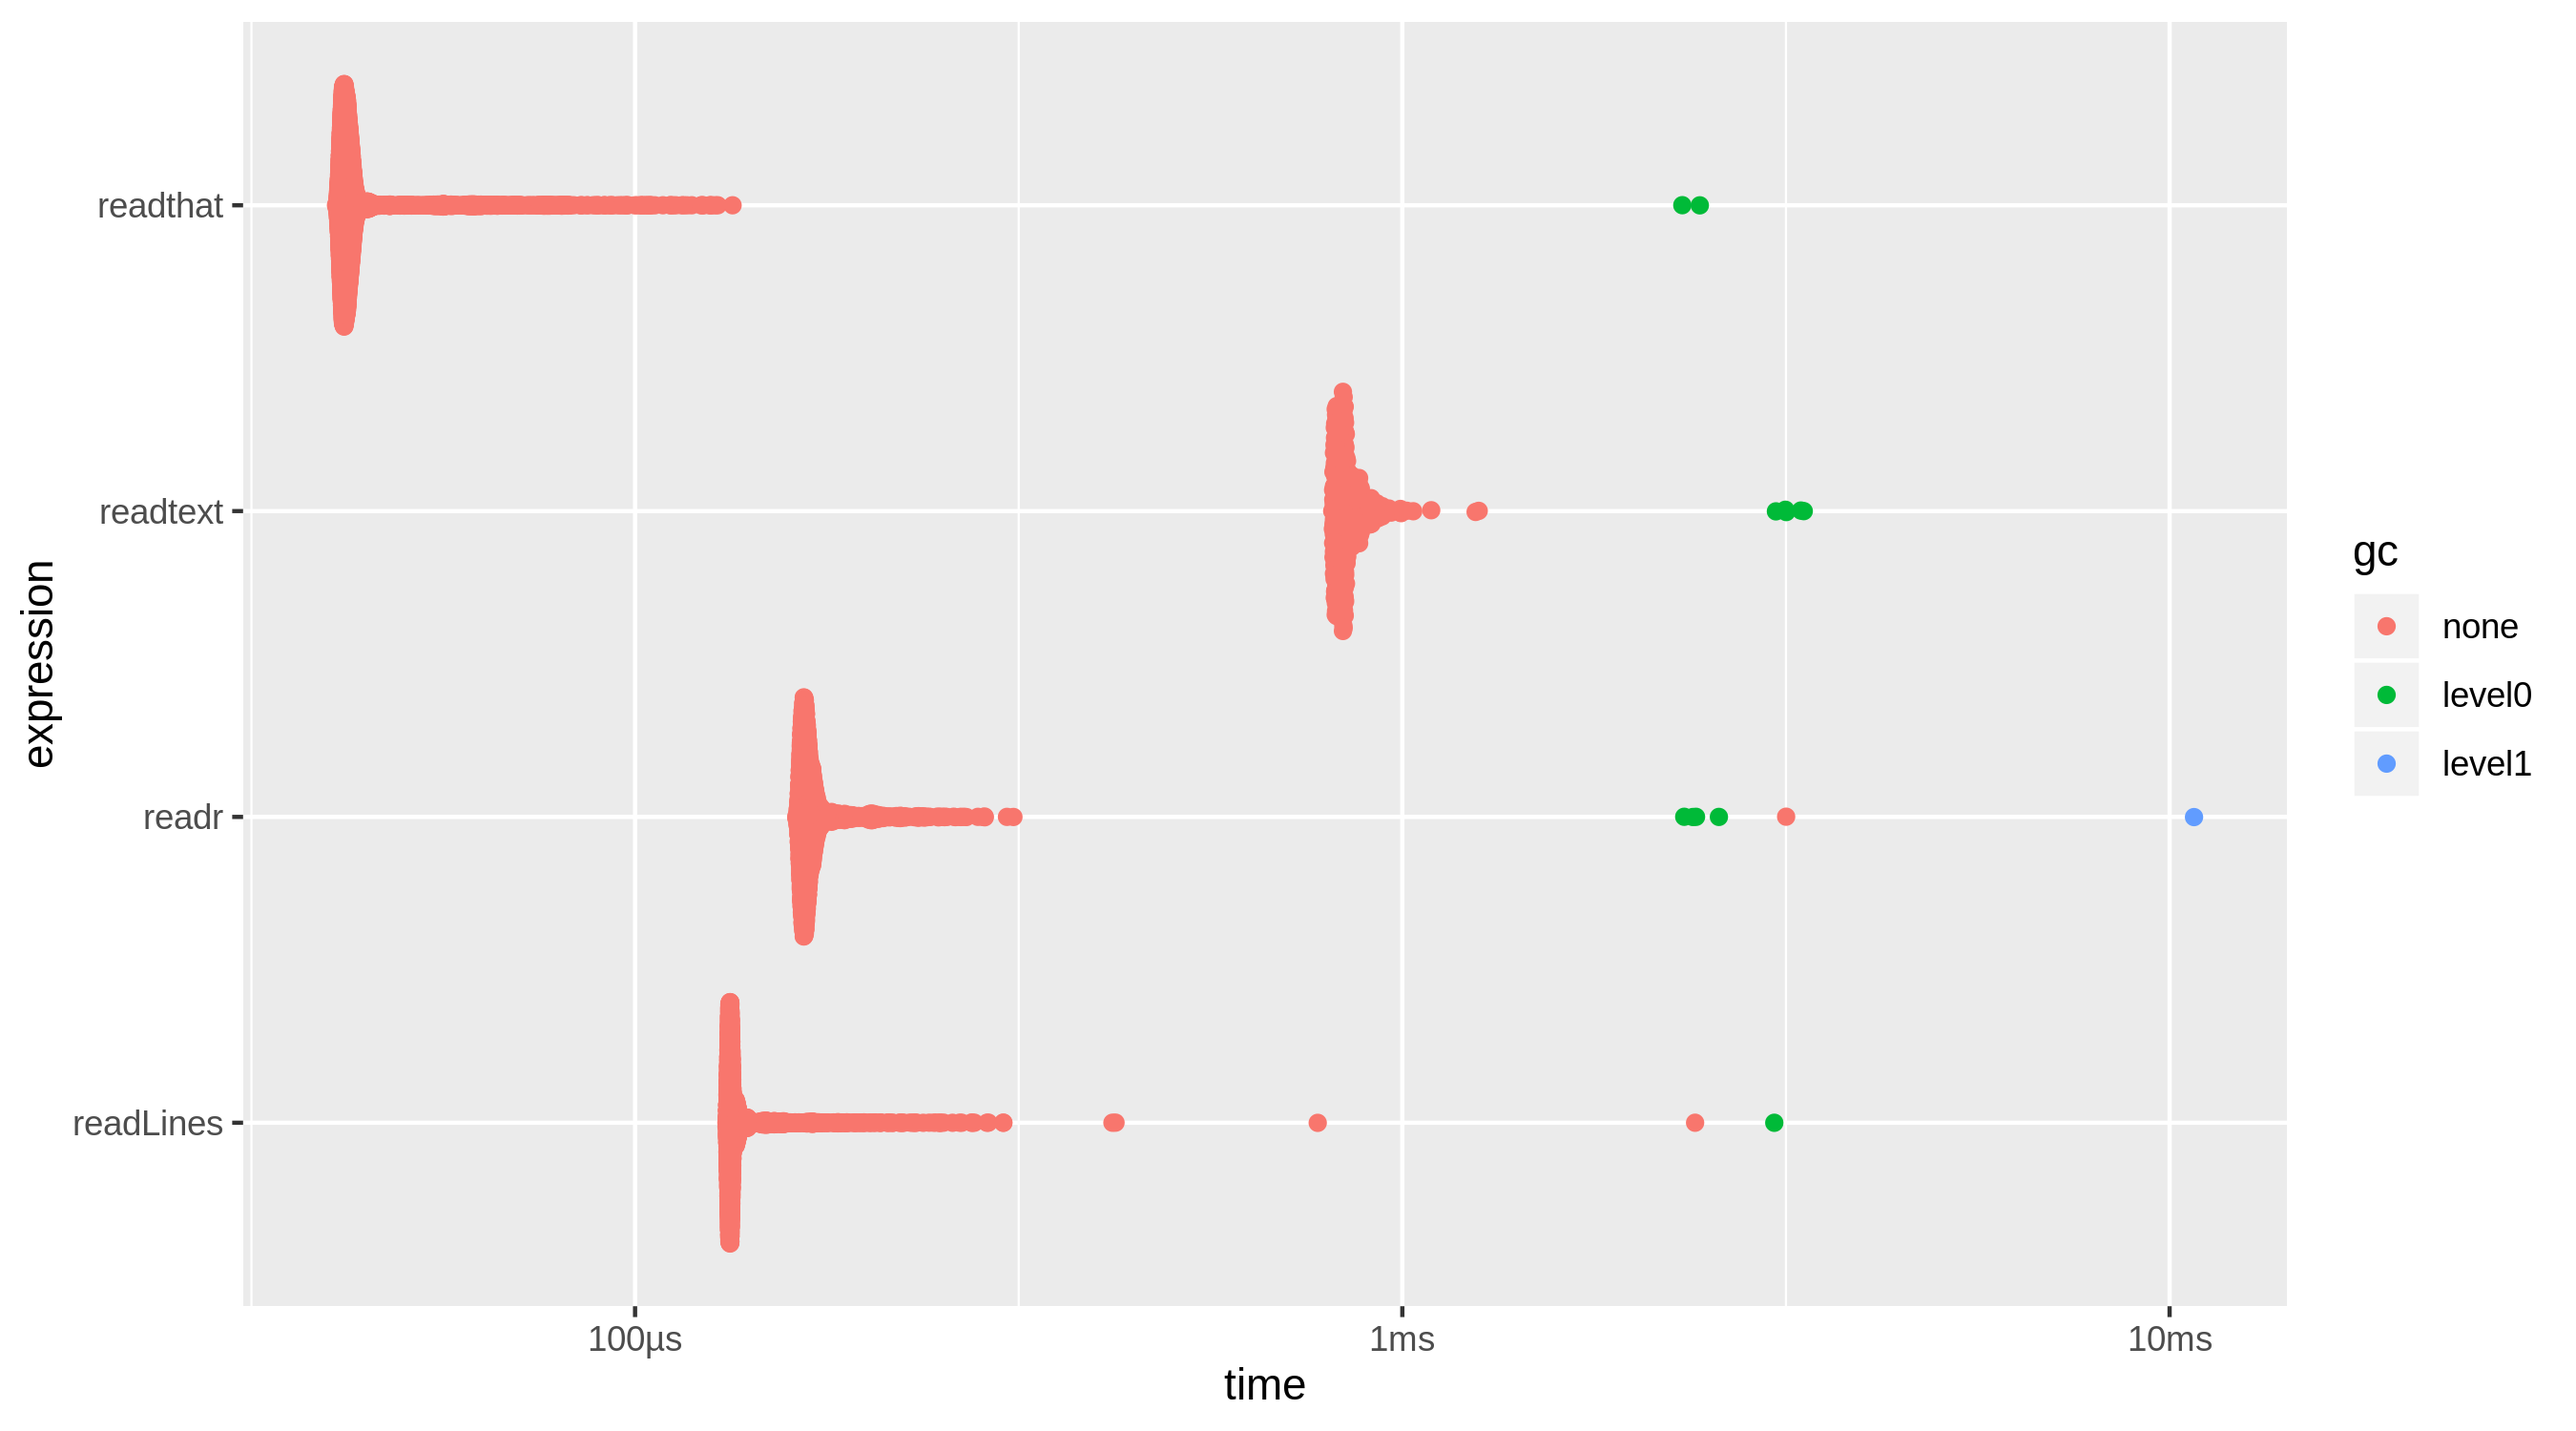
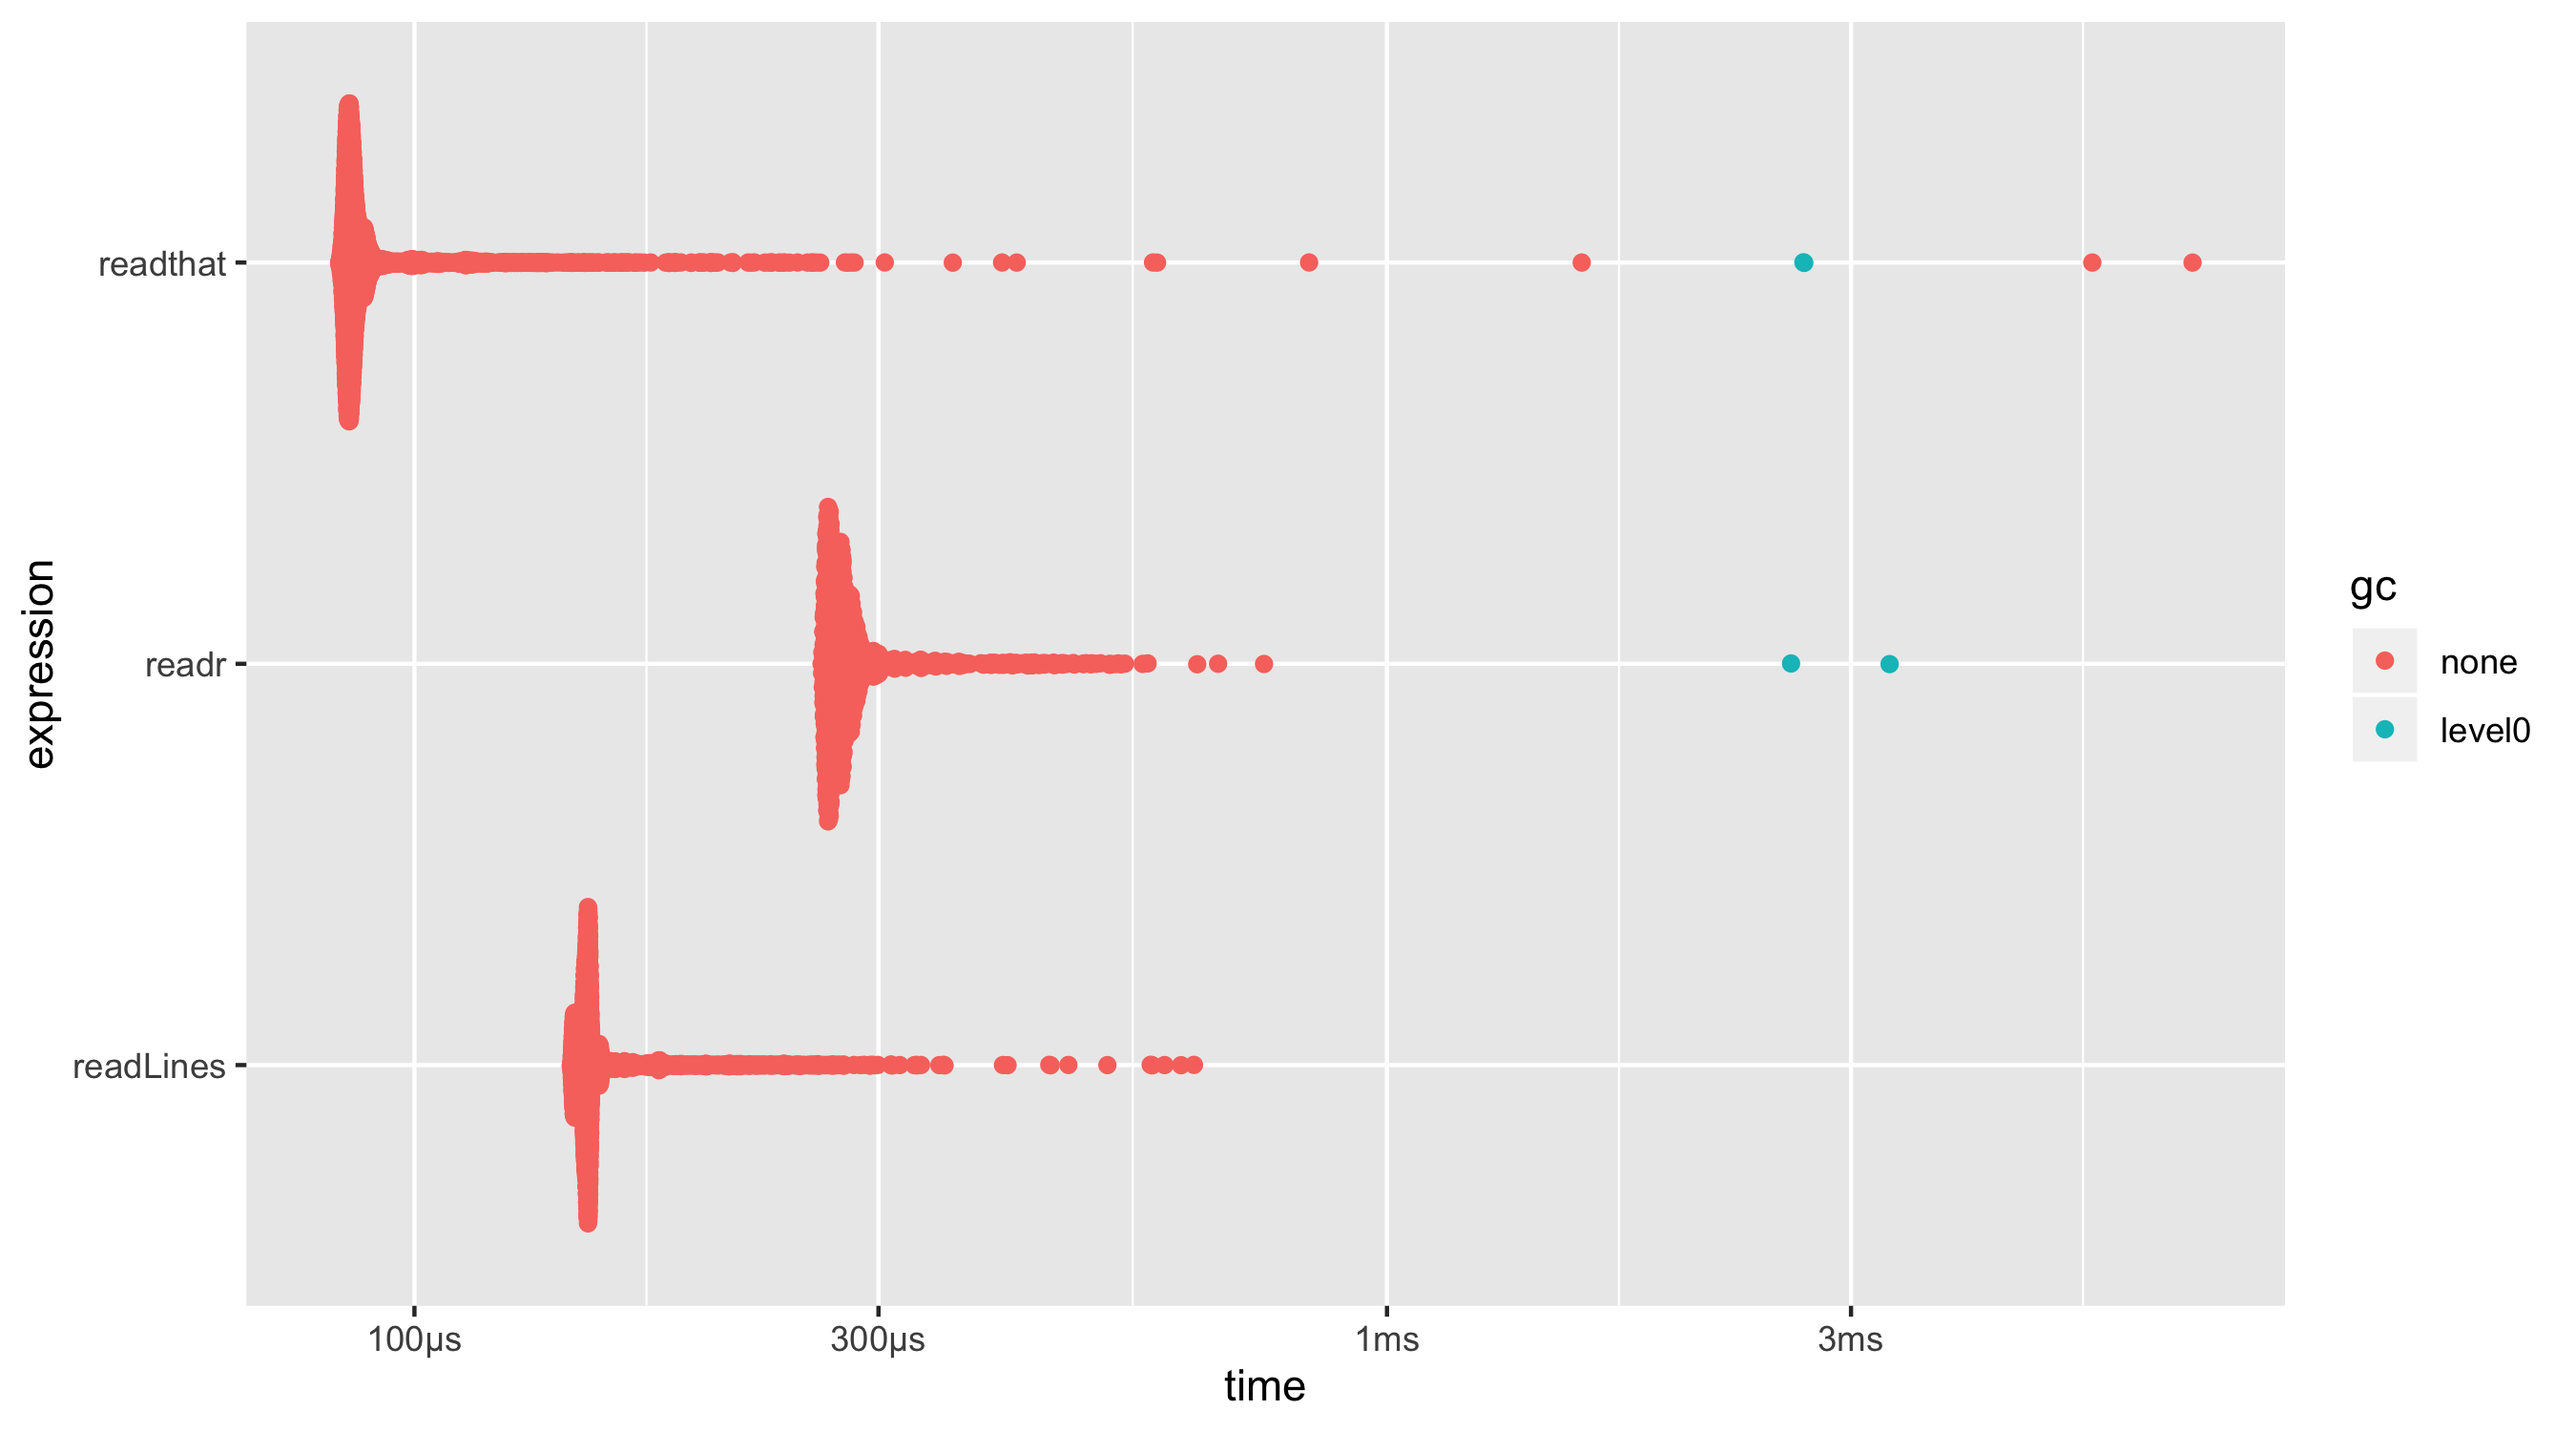
add readl and examples

diff --git a/src/lines.cpp b/src/lines.cpp
@@ -1,0 +1,67 @@
+#include <iostream>
+#include <fstream>
+#include <string>
+#include <vector>
+#include <Rcpp.h>
+
+using namespace Rcpp;
+
+// [[Rcpp::export]]
+std::vector<std::string> readlcpp(std::string filename, const int first = 1, const int last = 0) {
+
+  // Create string vector
+  std::vector<std::string> vecstr;
+
+  // Open the File
+  std::ifstream inp(filename.c_str());
+
+  // Initialize counter and check last bool
+  int i = 1;
+
+  // Initialize line value
+  std::string str;
+
+  // If all lines should be read
+  if (last < 1) {
+    while (std::getline(inp, str)) {
+      if (i < first) {
+        i = i + 1;
+        continue;
+      }
+      if (str.size() == 0)
+        str = "";
+      vecstr.push_back(str);
+    }
+    inp.close();
+    return vecstr;
+  }
+
+  // loop through lines
+  while (std::getline(inp, str)) {
+    if (i < first) {
+      // update counter
+      i = i + 1;
+      continue;
+    }
+
+    // if line has zero length replace with empty string
+    if (str.size() == 0)
+      str = "";
+
+    // add to vector
+    vecstr.push_back(str);
+
+    // update counter
+    i = i + 1;
+
+    // if last line has been reached then close and return
+    if (i > last) {
+      inp.close();
+      return vecstr;
+    }
+  }
+
+  // close and return
+  inp.close();
+  return vecstr;
+}

diff --git a/src/RcppExports.cpp b/src/RcppExports.cpp
@@ -16,9 +16,23 @@ BEGIN_RCPP
     return rcpp_result_gen;
 END_RCPP
 }
+// readlcpp
+std::vector<std::string> readlcpp(std::string filename, const int first, const int last);
+RcppExport SEXP _readthat_readlcpp(SEXP filenameSEXP, SEXP firstSEXP, SEXP lastSEXP) {
+BEGIN_RCPP
+    Rcpp::RObject rcpp_result_gen;
+    Rcpp::RNGScope rcpp_rngScope_gen;
+    Rcpp::traits::input_parameter< std::string >::type filename(filenameSEXP);
+    Rcpp::traits::input_parameter< const int >::type first(firstSEXP);
+    Rcpp::traits::input_parameter< const int >::type last(lastSEXP);
+    rcpp_result_gen = Rcpp::wrap(readlcpp(filename, first, last));
+    return rcpp_result_gen;
+END_RCPP
+}
 
 static const R_CallMethodDef CallEntries[] = {
     {"_readthat_readcpp", (DL_FUNC) &_readthat_readcpp, 1},
+    {"_readthat_readlcpp", (DL_FUNC) &_readthat_readlcpp, 3},
     {NULL, NULL, 0}
 };
 

diff --git a/src/ifstream.cpp b/src/ifstream.cpp
@@ -8,16 +8,13 @@ using namespace Rcpp;
 
 // [[Rcpp::export]]
 std::string readcpp(const std::string& path) {
-  std::ifstream in(path.c_str());
+  std::ifstream inp(path.c_str());
   std::string content;
-  in.seekg(0, std::ios::end);
-  content.resize(in.tellg());
-  in.seekg(0, std::ios::beg);
-  in.imbue( std::locale() );
-  in.read(&content[0], content.size());
-  in.close();
+  inp.seekg(0, std::ios::end);
+  content.resize(inp.tellg());
+  inp.seekg(0, std::ios::beg);
+  inp.imbue( std::locale() );
+  inp.read(&content[0], content.size());
+  inp.close();
   return content;
 }
-
-
-

diff --git a/README.md b/README.md
@@ -69,22 +69,25 @@ lapply(xx, substr, 1, 60)
 Benchmark comparison for reading a text file:
 
 ``` r
-x <- "~/Dropbox/data.txt"
+## save a text file
+writeLines(read(urls[1]), x <- tempfile())
+
+## coompare read times
 bm_file <- bench::mark(
-  readtext = readtext::readtext(x),
   readr = readr::read_lines(x),
   readthat = read(x),
   readLines = readLines(x),
   check = FALSE
 )
+
+## view results
 bm_file
-#> # A tibble: 4 x 6
+#> # A tibble: 3 x 6
 #>   expression      min   median `itr/sec` mem_alloc `gc/sec`
 #>   <bch:expr> <bch:tm> <bch:tm>     <dbl> <bch:byt>    <dbl>
-#> 1 readtext    810.2µs    838µs     1175.    4.89MB    10.3 
-#> 2 readr       162.2µs    167µs     5794.     2.7MB    10.4 
-#> 3 readthat     40.8µs     42µs    23061.   23.94KB     4.61
-#> 4 readLines   131.5µs    133µs     7214.   10.54KB     2.01
+#> 1 readr       262.2µs  273.9µs     3517.    3.69MB     4.05
+#> 2 readthat     83.7µs   86.2µs    10741.   28.65KB     4.04
+#> 3 readLines   144.8µs  150.7µs     6311.   13.16KB     0
 ```
 
 ![](man/figures/README-bm_file.png)
@@ -107,11 +110,11 @@ bm_html
 #> # A tibble: 5 x 6
 #>   expression      min   median `itr/sec` mem_alloc `gc/sec`
 #>   <bch:expr> <bch:tm> <bch:tm>     <dbl> <bch:byt>    <dbl>
-#> 1 httr         78.7ms  135.5ms      6.99    2.08MB    0.291
-#> 2 xml2          175ms  205.4ms      4.60    1.49MB    0.876
-#> 3 readthat     48.8ms   54.2ms     14.5    23.99KB    0    
-#> 4 readLines   311.2ms  322.3ms      2.83  455.72KB    0    
-#> 5 readr       148.8ms  172.6ms      4.03  626.36KB    0.168
+#> 1 httr         71.5ms    104ms      6.84     2.7MB    0.285
+#> 2 xml2        187.9ms    200ms      4.50    1.85MB    1.42 
+#> 3 readthat     48.6ms     52ms     14.1     23.9KB    0    
+#> 4 readLines   375.9ms    472ms      1.95  620.33KB    0    
+#> 5 readr       158.6ms    169ms      5.57   799.7KB    0.232
 ```
 
 ![](man/figures/README-bm_html.png)
